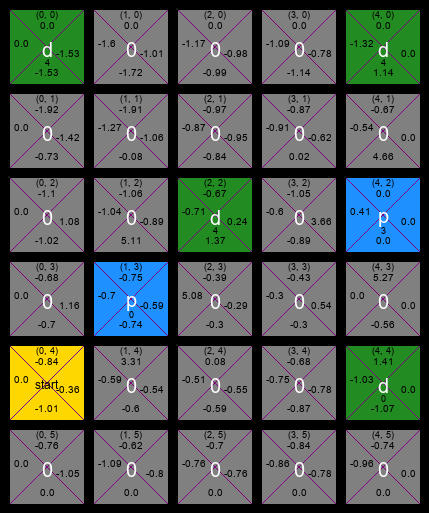
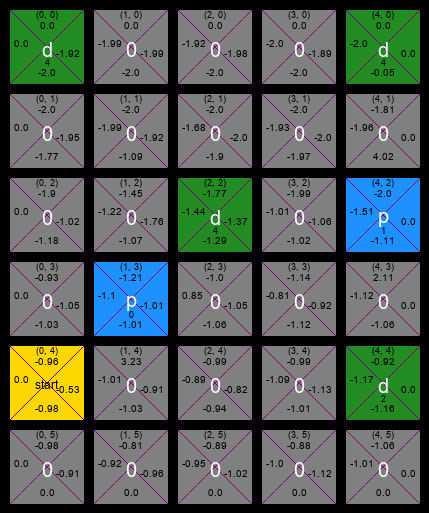
Few display adjustment

diff --git a/main.py b/main.py
@@ -9,8 +9,10 @@ import cv2 as cv
 
 FIRST_STEPS = 500
 SECOND_STEPS = 5500
-count_steps = 1
+count_steps = 0
 episode = 1
+
+random.seed(random.uniform(1, 1000))
 
 # global x,  y, drop_off_loc, pick_up_loc, has_block, done, world, q_offset, q_table
 
@@ -42,7 +44,7 @@ epsilon = 0.8  # chance of being greedy in exploit policy
 
 def main():
     global world
-
+    global episode
     # policy = "PRANDOM"
     policy = "PEXPLOIT"
     # policy = "PGREEDY"
@@ -73,7 +75,10 @@ def main():
 
     print("\n\nq_table after completed")
     print(q_table)
-    print("\ncomplete", steps1 + steps2, "steps")
+
+    if not done:
+        episode -= 1
+    print("\ncompleted", episode, 'episodes in', steps1 + steps2, "steps")
 
     # update world
     updateWorld(h, w, world, vis_objs['world_vl'])
@@ -188,7 +193,7 @@ def doSteps(steps, policy):
 
         # update qtable
         q_table[state][actionToIndex(action)] = \
-            round((1 - alpha) * Q(state, action) + alpha * (reward + gamma * maxQ(next_state, next_valid_actions)), 2)
+            (1 - alpha) * Q(state, action) + alpha * (reward + gamma * maxQ(next_state, next_valid_actions))
 
         # keep track of prev state for step visualize part
         prev_x = x
@@ -202,6 +207,7 @@ def doSteps(steps, policy):
         # reset world, put agent back at start
 
         if len(pick_up_loc) == 0 and len(drop_off_loc) == 0:
+            print('episode ', episode, 'is done | agent takes:', count_steps, 'steps')
             print("\nTerminal state reached")
             done = True
             x = 0
@@ -215,12 +221,11 @@ def doSteps(steps, policy):
                                    drop_off_loc, pick_up_loc, vis_objs['q_table_no_block'], world)
             updateDropAndPickSpots(h, w, q_table, True,
                                    drop_off_loc, pick_up_loc, vis_objs['q_table_with_block'], world)
-            print('episode ', episode, '| agent takes:', count_steps, 'steps')
             print('q_table:')
             print(q_table)
             print('-------------------------------------------------')
             # reset episode steps
-            count_steps = 1
+            count_steps = 0
             # count episode
             episode += 1
             # break
@@ -270,7 +275,8 @@ def doSteps(steps, policy):
             cv.waitKey(1)
 
     if step + 1 == SECOND_STEPS:
-        print('episode ', episode, '| agent takes:', count_steps)
+        print('episode ', episode, 'is not done | agent takes:', count_steps)
+        print('6000 steps reached')
     return step + 1
 
 

diff --git a/vis_funcs.py b/vis_funcs.py
@@ -54,7 +54,7 @@ def fillQValues(h, w, q_table, world_vl, has_block):
         for c in range(h):
             state = getStateFromCoords(c, r) + q_offset
             for i, a in enumerate(action):
-                world_vl.write_block((r, c), str(q_table[state][i]), 'black',
+                world_vl.write_block((r, c), str(round(q_table[state][i], 2)), 'black',
                                      pos=a, font_s=10)
     print('Done filling q_table')
 
@@ -84,7 +84,7 @@ def updateCell(h, w, q_table, world, world_vl, has_block, prev_x, prev_y, start_
         q_offset = w * h
     state = getStateFromCoords(prev_y, prev_x) + q_offset
     for i, a in enumerate(action):
-        world_vl.write_block((prev_x, prev_y), str(q_table[state][i]), 'black',
+        world_vl.write_block((prev_x, prev_y), str(round(q_table[state][i], 2)), 'black',
                              pos=a, font_s=10)
 
 
@@ -105,6 +105,6 @@ def updateDropAndPickSpots(h, w, q_table, has_block, drop_off_loc, pick_up_loc, 
             q_offset = w * h
         state = getStateFromCoords(c[1], c[0]) + q_offset
         for i, a in enumerate(action):
-            world_vl.write_block(c, str(q_table[state][i]), 'black',
+            world_vl.write_block(c, str(round(q_table[state][i], 2)), 'black',
                                  pos=a, font_s=10)
 
